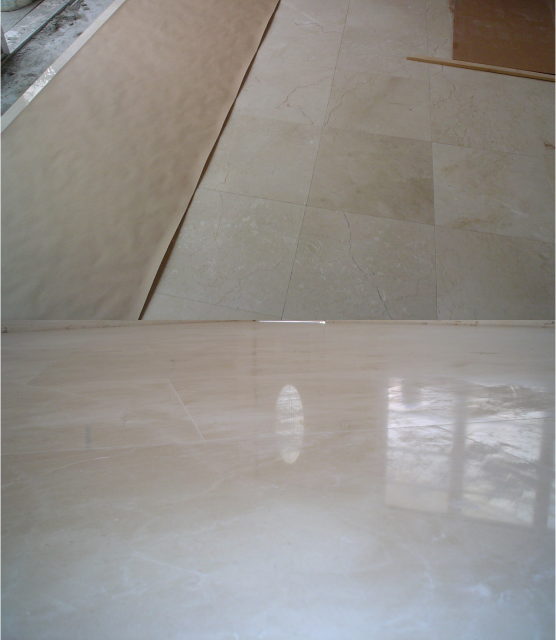
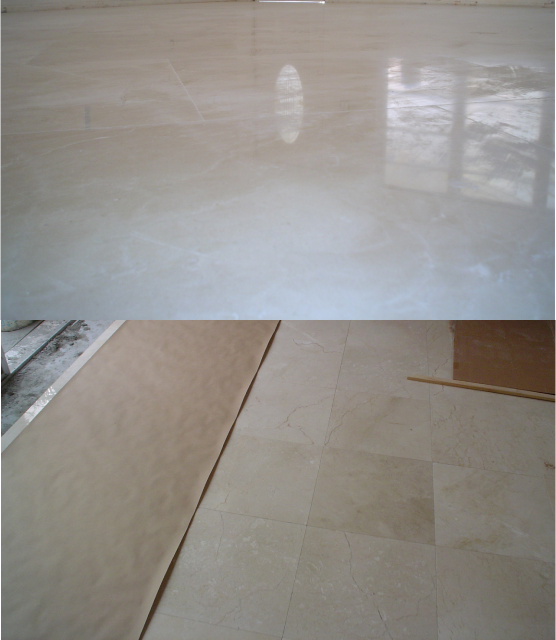
cambio de imagenes de Nuestros trabajos

diff --git a/src/utils/masTrabajos.js b/src/utils/masTrabajos.js
@@ -103,38 +103,38 @@ const dataMasTrabajos = {
         {
             'name': 'Baño marmolado',
             'desc_corta':'Trabajo realizado con marmol',
-            'portada': "images/marmol/baños de marmol negro.png",
-            'cara': "images/marmol/baños de marmol negro Cara.png"
+            'portada': "/images/trabajos-en-marmol/baño-revestido-en-marmol-amarillento.png",
+            'cara': "/images/trabajos-en-marmol/baño-en-marmol-amarillento.png"
         },
         {
             'name': 'Baño porcelanato',
             'desc_corta':'Trabajo realizado con marmol y porcelanato',
-            'portada': "images/marmol/baños de marmol y porcelanato.png",
-            'cara': "images/marmol/baños de marmol y porcelanato cara.png"
+            'portada': "/images/trabajos-en-marmol/baño-recubierto-en-marmol-negro-marmoleado.png",
+            'cara': "/images/trabajos-en-marmol/baños-revestido-en-marmol-negro-marmoleado.png"
         },
         {
             'name': 'Candelabro',
             'desc_corta':'Trabajo realizado con marmol',
-            'portada': "images/marmol/candelabro.png",
-            'cara': "images/marmol/candelabro cara.png"
+            'portada': "/images/trabajos-en-marmol/baño-revestido-en-marmol-naranja-detallado.png",
+            'cara': "/images/trabajos-en-marmol/baño-revestido-en-marmol-naranja.png"
         },
         {
             'name': 'Pisos exteriores en marmol',
             'desc_corta':'Exterior trabajado con marmol',
-            'portada': "images/marmol/carpeta para marmol.png",
-            'cara': "images/marmol/carpeta para marmol cara.png"
+            'portada': "/images/trabajos-en-marmol/cortes-en-marmol-precisos-detallado.png",
+            'cara': "/images/trabajos-en-marmol/cortes-en-marmol-precisos.png"
         },
         {
             'name': 'Pisos interiores en marmol',
             'desc_corta':'Interior trabajado con marmol',
-            'portada': "images/marmol/casas en marmol.png",
-            'cara': "images/marmol/casas en marmol cara.png"
+            'portada': "/images/trabajos-en-marmol/piso-de-marmol-amarillo-con-candelabro.png",
+            'cara': "/images/trabajos-en-marmol/piso-de-marmol-con-candelabro.png"
         },
         {
             'name': 'Cortes en marmol',
             'desc_corta':'Interior trabajado con marmol y cortes en forma',
-            'portada': "images/marmol/cortes en marmol.png",
-            'cara': "images/marmol/cortes en marmol cara.png"
+            'portada': "/images/trabajos-en-marmol/piso-en-marmol-blanco-grisaseo.png",
+            'cara': "/images/trabajos-en-marmol/piso-en-marmol-blanco.png"
         },
         {
             'name': 'Living en marmol',
@@ -145,101 +145,85 @@ const dataMasTrabajos = {
         {
             'name': 'Pisos de jardín en marmol',
             'desc_corta':'Trabajo realizado en exterior trabajado con marmol',
-            'portada': "images/marmol/nivelacion de pisos de marmol.png",
-            'cara': "images/marmol/nivelacion de pisos de marmol cara.png"
+            'portada': "/images/trabajos-en-marmol/piso-exterior-revestido-en-marmol-gris-y-marron.png",
+            'cara': "/images/trabajos-en-marmol/piso-exterior-revestido-en-marmol.png"
         },
         {
             'name': 'Pisos de jardín estilo roca ',
             'desc_corta':'Trabajo realizado en exterior trabajado con marmol',
-            'portada': "images/marmol/piso de roca.png",
-            'cara': "images/marmol/piso de roca cara.png"
+            'portada': "/images/trabajos-en-marmol/piso-revestido-en-marmol-blanco-anaranjado.png",
+            'cara': "/images/trabajos-en-marmol/piso-recubierto-con-baldosas-de-marmol-blanco.png"
         },
         {
             'name': 'Pisos interior liso',
             'desc_corta':'Interior trabajado en marmol',
-            'portada': "images/marmol/pisos de marmol.png",
-            'cara': "images/marmol/pisos de marmol cara.png"
-        },
-        {
-            'name': 'Jardín en marmol',
-            'desc_corta':'Exterior trabajado en marmol',
-            'portada': "images/marmol/pisos exteriores en marmol.png",
-            'cara': "images/marmol/pisos exteriores en marmol cara.png"
-        },
-        {
-            'name': 'Piso en marmol',
-            'desc_corta':'Piso en interior trabajado en marmol',
-            'portada': "images/marmol/proteccion de pisos.png",
-            'cara': "images/marmol/proteccion de pisos cara.png"
+            'portada': "/images/trabajos-en-marmol/pisos-revestidos-en-marmol-blanco-anaranjado.png",
+            'cara': "/images/trabajos-en-marmol/piso-recubierto-en-marmol-naranja.png"
         }
     ],
     pisos: [
         {
             'name': 'Piso en porcelanato',
             'desc_corta':'Piso en interior trabajado en porcelanato',
-            'portada': "images/pisos/casas con porcelanato.png",
-            'cara': "images/pisos/casas con porcelanato cara.png"
+            'portada': "/images/trabajos-en-porcelanato/baño-revestido-en-porcelanato-blanco-detallado.png",
+            'cara': "/images/trabajos-en-porcelanato/baño-revestido-en-porcelanato-blanco.png"
         },
         {
             'name': 'Clicker nivelador',
             'desc_corta':'Trabajo en interior con sus correspondientes clicker para nivelacion',
-            'portada': "images/pisos/clicker nivelador.png",
-            'cara': "images/pisos/clicker nivelador cara.png"
+            'portada': "/images/trabajos-en-porcelanato/baño-revestido-en-porcelanato-naranja-zom.png",
+            'cara': "/images/trabajos-en-porcelanato/baño-revestido-en-porcelanato-naranja.png"
         },
         {
             'name': 'Porcelanato Atermico',
             'desc_corta':'Trabajo de porcelanato atermico en exterior',
-            'portada': "images/pisos/colocacion de material atermico.png",
-            'cara': "images/pisos/colocacion de material atermico cara.png"
+            'portada': "/images/trabajos-en-porcelanato/fuente-revestida-en-porcelanato-negro-y-amarillo.png",
+            'cara': "/images/trabajos-en-porcelanato/fuente-revestida-en-porcelanato-negro.png"
         },
         {
             'name': 'Porcelanato simil madera',
             'desc_corta':'Trabajo de porcelanato en proceso simil madera',
-            'portada': "images/pisos/cortes en porcelanato.png",
-            'cara': "images/pisos/cortes en porcelanato cara.png"
+            'portada': "/images/trabajos-en-porcelanato/piso-revestido-en-porcelanato-con-patron-hecho-a-mano-cuadriculado.png",
+            'cara': "/images/trabajos-en-porcelanato/piso-con-patron-cuadriculado-en-porcelanato-de-6x6-y-12x6-pulgadas.png"
         },
         {
             'name': 'Diseño interior en porcelanato',
             'desc_corta':'Trabajo interior con cortes en porcelanato',
-            'portada': "images/pisos/diseños con porcelanato.png",
-            'cara': "images/pisos/diseños con porcelanato cara.png"
-        },
-        {
-            'name': 'Diseño de pisos en porcelanato',
-            'desc_corta':'Trabajo interior con cortes en porcelanato',
-            'portada': "images/pisos/instalacion de porcelanato.png",
-            'cara': "images/pisos/instalacion de porcelanato cara.png"
+            'portada': "/images/trabajos-en-porcelanato/piso-de-oficinas-revestido-en-porcelanato-gris.png",
+            'cara': "/images/trabajos-en-porcelanato/piso-de-oficina-revestido-en-porcelanato-gris.png"
         },
         {
             'name': 'Porcelanato Atermico Exterior',
             'desc_corta':'Trabajo de porcelanato atermico en exterior',
-            'portada': "images/pisos/pisos de material atermico.png",
-            'cara': "images/pisos/pisos de material atermico cara.png"
+            'portada': "/images/trabajos-en-porcelanato/piso-revestido-en-porcelanato-simil-madera-oscuro.png",
+            'cara': "/images/trabajos-en-porcelanato/piso-revestido-en-simil-madera-oscuro.png"
         },
         {
             'name': 'Pisos porcelanato espejo',
             'desc_corta':'Trabajo de porcelanato interior con acabado brillante',
-            'portada': "images/pisos/pisos de porcelanato.png",
-            'cara': "images/pisos/pisos de porcelanato cara.png"
-        },
-        {
-            'name': 'Pisos simil madera',
-            'desc_corta':'Trabajo de porcelanato en proceso simil madera',
-            'portada': "images/pisos/porcelanato simil madera.png",
-            'cara': "images/pisos/porcelanato simil madera cara.png"
+            'portada': "/images/trabajos-en-porcelanato/piso-revestido-en-porcelanto-gris-acabado.png",
+            'cara': "/images/trabajos-en-porcelanato/piso-revestido-en-porcelanto-gris.png"
         },
         {
             'name': 'Porcelanatos varios',
             'desc_corta':'Trabajos varios en porcelanato con spin niveladores',
-            'portada': "images/pisos/spin nivelador.png",
-            'cara': "images/pisos/spin nivelador cara.png"
+            'portada': "/images/trabajos-en-porcelanato/pisos-revestido-en-porcelanato-simil-madera.png",
+            'cara': "/images/trabajos-en-porcelanato/piso-revestido-en-simil-madera.png"
+        }
+    ],
+    otros: [
+        {
+            'name': 'Baldosas de Roca',
+            'desc_corta':'Trabajos varios en porcelanato con spin niveladores',
+            'portada': "/images/trabajos-extras/pisos-recubiertos-en-baldosas-de-roca.png",
+            'cara': "/images/trabajos-extras/pisos-revestidos-en-roca.png"
         },
         {
-            'name': 'Juntas de porcelanatos varias',
+            'name': 'Material atermico',
             'desc_corta':'Trabajos varios en porcelanato con spin niveladores',
-            'portada': "images/pisos/tomado de juntas.png",
-            'cara': "images/pisos/tomado de juntas cara.png"
-        },
+            'portada': "/images/trabajos-extras/pisos-escaleras-balcones-columnas-de-material-atermico.png",
+            'cara': "/images/trabajos-extras/revestimientos-de-material-atermico.png"
+        }
     ]
 
 };

diff --git a/src/components/MasTrabajosNew.jsx b/src/components/MasTrabajosNew.jsx
@@ -51,18 +51,17 @@ export function MasTrabajosNew() {
 
                     <div style={{paddingTop:'1.13rem'}} class="container-cards " >
 
-                        <Modal modal={11} img={data.marmol[0].cara} titulo={data.marmol[0].name} desc={data.marmol[0].desc_corta} imgModal={data.marmol[0].portada} />
-                        <Modal modal={12} img={data.marmol[1].cara} titulo={data.marmol[1].name} desc={data.marmol[1].desc_corta} imgModal={data.marmol[1].portada} />
-                        <Modal modal={13} img={data.marmol[2].cara} titulo={data.marmol[2].name} desc={data.marmol[2].desc_corta} imgModal={data.marmol[2].portada} />
-                        <Modal modal={14} img={data.marmol[3].cara} titulo={data.marmol[3].name} desc={data.marmol[3].desc_corta} imgModal={data.marmol[3].portada} />
-                        <Modal modal={15} img={data.marmol[4].cara} titulo={data.marmol[4].name} desc={data.marmol[4].desc_corta} imgModal={data.marmol[4].portada} />
-                        <Modal modal={16} img={data.marmol[5].cara} titulo={data.marmol[5].name} desc={data.marmol[5].desc_corta} imgModal={data.marmol[5].portada} />
-                        <Modal modal={17} img={data.marmol[6].cara} titulo={data.marmol[6].name} desc={data.marmol[6].desc_corta} imgModal={data.marmol[6].portada} />
-                        <Modal modal={18} img={data.marmol[7].cara} titulo={data.marmol[7].name} desc={data.marmol[7].desc_corta} imgModal={data.marmol[7].portada} />
-                        <Modal modal={19} img={data.marmol[8].cara} titulo={data.marmol[8].name} desc={data.marmol[8].desc_corta} imgModal={data.marmol[8].portada} />
-                        <Modal modal={20} img={data.marmol[9].cara} titulo={data.marmol[9].name} desc={data.marmol[9].desc_corta} imgModal={data.marmol[9].portada} />
-                        <Modal modal={21} img={data.marmol[10].cara} titulo={data.marmol[10].name} desc={data.marmol[10].desc_corta} imgModal={data.marmol[10].portada} />
-                        <Modal modal={22} img={data.marmol[11].cara} titulo={data.marmol[11].name} desc={data.marmol[11].desc_corta} imgModal={data.marmol[11].portada} />
+                        <Modal modal={24} img={data.marmol[7].cara} titulo={data.marmol[7].name} desc={data.marmol[7].desc_corta} imgModal={data.marmol[7].portada} />
+                        <Modal modal={18} img={data.marmol[1].cara} titulo={data.marmol[1].name} desc={data.marmol[1].desc_corta} imgModal={data.marmol[1].portada} />
+                        <Modal modal={21} img={data.marmol[4].cara} titulo={data.marmol[4].name} desc={data.marmol[4].desc_corta} imgModal={data.marmol[4].portada} />
+                        <Modal modal={20} img={data.marmol[3].cara} titulo={data.marmol[3].name} desc={data.marmol[3].desc_corta} imgModal={data.marmol[3].portada} />
+                        <Modal modal={26} img={data.marmol[9].cara} titulo={data.marmol[9].name} desc={data.marmol[9].desc_corta} imgModal={data.marmol[9].portada} />
+                        <Modal modal={22} img={data.marmol[5].cara} titulo={data.marmol[5].name} desc={data.marmol[5].desc_corta} imgModal={data.marmol[5].portada} />
+                        <Modal modal={17} img={data.marmol[0].cara} titulo={data.marmol[0].name} desc={data.marmol[0].desc_corta} imgModal={data.marmol[0].portada} />
+                        <Modal modal={19} img={data.marmol[2].cara} titulo={data.marmol[2].name} desc={data.marmol[2].desc_corta} imgModal={data.marmol[2].portada} />
+                        <Modal modal={25} img={data.marmol[8].cara} titulo={data.marmol[8].name} desc={data.marmol[8].desc_corta} imgModal={data.marmol[8].portada} />
+                        <Modal modal={23} img={data.marmol[6].cara} titulo={data.marmol[6].name} desc={data.marmol[6].desc_corta} imgModal={data.marmol[6].portada} />
+
                     </div>
 
                     <hr />
@@ -70,19 +69,27 @@ export function MasTrabajosNew() {
                     <p>Revestimientos realizados en Porcelanato</p>
 
                     <div style={{paddingTop:'1.13rem'}} class="container-cards ">
+                        
+                        <Modal modal={32} img={data.pisos[5].cara} titulo={data.pisos[5].name} desc={data.pisos[5].desc_corta} imgModal={data.pisos[5].portada}  />
+                        <Modal modal={33} img={data.pisos[6].cara} titulo={data.pisos[6].name} desc={data.pisos[6].desc_corta} imgModal={data.pisos[6].portada}  />
+                        <Modal modal={34} img={data.pisos[7].cara} titulo={data.pisos[7].name} desc={data.pisos[7].desc_corta} imgModal={data.pisos[7].portada}  />
+                        <Modal modal={30} img={data.pisos[3].cara} titulo={data.pisos[3].name} desc={data.pisos[3].desc_corta} imgModal={data.pisos[3].portada}  />
+                        <Modal modal={31} img={data.pisos[4].cara} titulo={data.pisos[4].name} desc={data.pisos[4].desc_corta} imgModal={data.pisos[4].portada}  />
+                        <Modal modal={27} img={data.pisos[0].cara} titulo={data.pisos[0].name} desc={data.pisos[0].desc_corta} imgModal={data.pisos[0].portada}  />
+                        <Modal modal={29} img={data.pisos[2].cara} titulo={data.pisos[2].name} desc={data.pisos[2].desc_corta} imgModal={data.pisos[2].portada}  />
+                        <Modal modal={28} img={data.pisos[1].cara} titulo={data.pisos[1].name} desc={data.pisos[1].desc_corta} imgModal={data.pisos[1].portada}  />
+                        
+                    </div>
 
-                        <Modal modal={23} img={data.pisos[0].cara} titulo={data.pisos[0].name} desc={data.pisos[0].desc_corta} imgModal={data.pisos[0].portada}  />
-                        <Modal modal={24} img={data.pisos[1].cara} titulo={data.pisos[1].name} desc={data.pisos[1].desc_corta} imgModal={data.pisos[1].portada}  />
-                        <Modal modal={25} img={data.pisos[2].cara} titulo={data.pisos[2].name} desc={data.pisos[2].desc_corta} imgModal={data.pisos[2].portada}  />
-                        <Modal modal={26} img={data.pisos[3].cara} titulo={data.pisos[3].name} desc={data.pisos[3].desc_corta} imgModal={data.pisos[3].portada}  />
-                        <Modal modal={27} img={data.pisos[4].cara} titulo={data.pisos[4].name} desc={data.pisos[4].desc_corta} imgModal={data.pisos[4].portada}  />
-                        <Modal modal={28} img={data.pisos[5].cara} titulo={data.pisos[5].name} desc={data.pisos[5].desc_corta} imgModal={data.pisos[5].portada}  />
-                        <Modal modal={29} img={data.pisos[6].cara} titulo={data.pisos[6].name} desc={data.pisos[6].desc_corta} imgModal={data.pisos[6].portada}  />
-                        <Modal modal={30} img={data.pisos[7].cara} titulo={data.pisos[7].name} desc={data.pisos[7].desc_corta} imgModal={data.pisos[7].portada}  />
-                        <Modal modal={31} img={data.pisos[8].cara} titulo={data.pisos[8].name} desc={data.pisos[8].desc_corta} imgModal={data.pisos[8].portada}  />
-                        <Modal modal={32} img={data.pisos[9].cara} titulo={data.pisos[9].name} desc={data.pisos[9].desc_corta} imgModal={data.pisos[9].portada}  />
-                        <Modal modal={33} img={data.pisos[10].cara} titulo={data.pisos[10].name} desc={data.pisos[10].desc_corta} imgModal={data.pisos[10].portada} esUltimo />
+                    <hr />
+                    <h2>Otros materiales</h2>
+                    <p>Revestimientos realizados en piedra (o roca) y material atérmico</p>
 
+                    <div style={{paddingTop:'1.13rem'}} class="container-cards ">
+                        
+                        <Modal modal={36} img={data.otros[1].cara} titulo={data.otros[1].name} desc={data.otros[1].desc_corta} imgModal={data.otros[1].portada}  />
+                        <Modal modal={35} img={data.otros[0].cara} titulo={data.otros[0].name} desc={data.otros[0].desc_corta} imgModal={data.otros[0].portada}  />
+                        
                     </div>
 
 

diff --git a/src/components/Home.jsx b/src/components/Home.jsx
@@ -4,6 +4,7 @@ import { Carrusel } from "./carrusel";
 import { ContactUs } from "./ContactUs";
 import React, { useState, useEffect } from 'react';
 import home from '../styles/Home.css'
+import {Helmet} from 'react-helmet';
 
 if (DarkMode){
     console.log("esta activo")
@@ -55,6 +56,13 @@ export function Home (){
   }, []);
     return(
     <>
+    <Helmet>
+      <meta
+      name="description"
+      content="OCC Revestimientos: Expertos en instalación de mármol, porcelanato y venecitas. Calidad y precisión en cada proyecto. Más de 13 años de experiencia transformando espacios con acabados duraderos y estéticos."
+      />
+      <title>OCC Colocación de revestimientos</title>
+    </Helmet>
         <div style={{height:'8vh'}} ></div>
         <section id="home" style={sectionStyle}>
       <div className="container">
